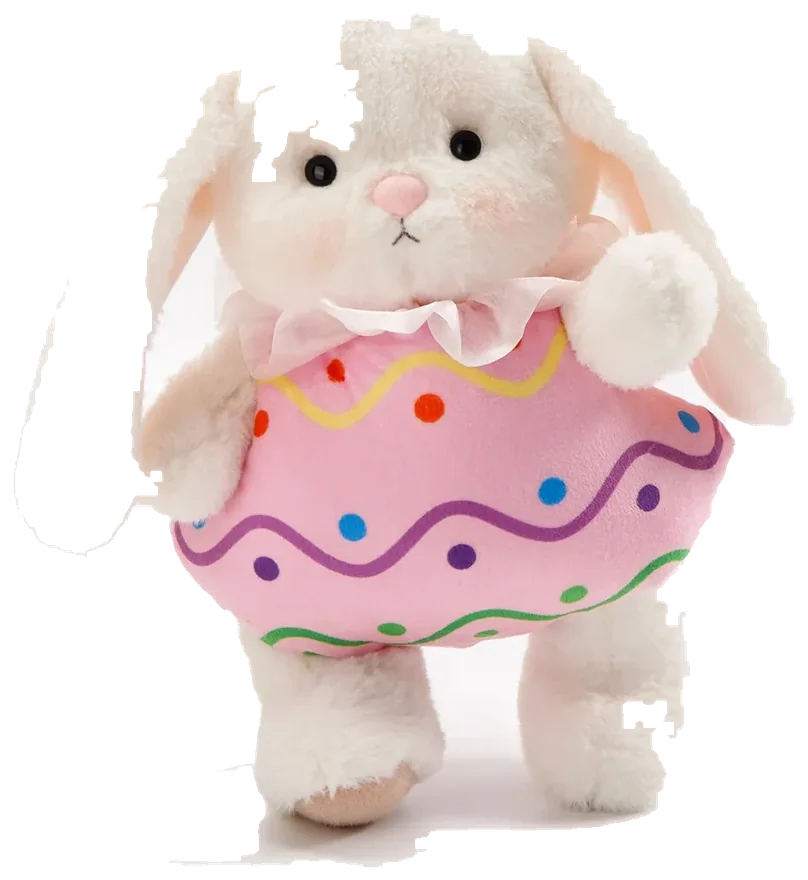
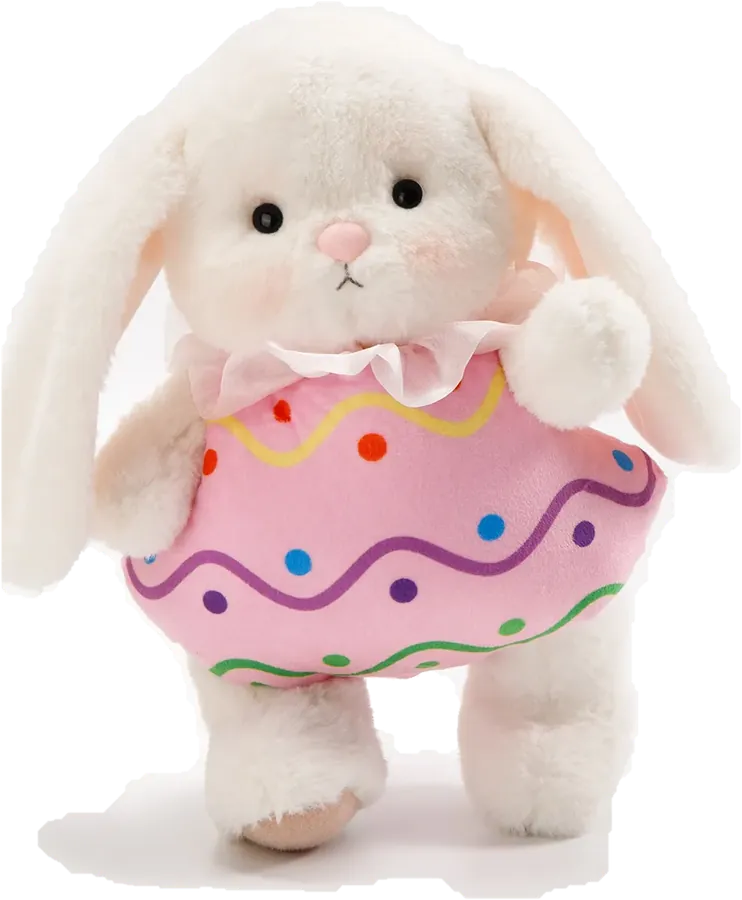
Détourages officiels pour 14 doudous, une seule photo par fiche
Photos : les 14 visuels fournis, déjà détourés, remplacent les découpes
maison (halos de fond, contours rongés). Même traitement que la série
Halloween — recadrage sur le contenu opaque, WebP 900 px.

Fiche produit : la galerie fabriquait quatre « vues » (studio, décor,
zoom, chambre) à partir du même fichier en changeant le fond et
l'échelle. Quatre vignettes pour une seule vraie photo, donc la promesse
d'angles qui n'existent pas. Une photo, une vignette.

Livraison offerte : la PR #14 avait retiré les deux mentions à côté de
la nouvelle bannière (carte de réassurance, ligne du Doudou Mystère).
Elles n'avaient pas été demandées, elles reviennent.

Claude-Session: https://claude.ai/code/session_01Kr7bapzMPAxzmnzg6h2q7J

diff --git a/components/ProductGallery.tsx b/components/ProductGallery.tsx
@@ -1,69 +1,25 @@
-"use client";
-
 /**
- * Galerie produit : plusieurs mises en scène du même doudou (fond, cadrage,
- * décor saisonnier). <ProductVisual> affiche la vraie photo quand le produit
- * en a une, et l'illustration SVG sinon.
+ * Visuel de la fiche produit : une seule photo, celle du doudou.
+ *
+ * La galerie proposait auparavant quatre « vues » (studio, décor, zoom,
+ * chambre) fabriquées à partir du même fichier en changeant le fond et
+ * l'échelle. Ça donnait quatre vignettes pour une seule vraie photo, ce qui
+ * promet des angles qui n'existent pas. Une photo, une vignette : ce qu'on
+ * montre correspond à ce qu'on a.
  */
 
-import { useState } from "react";
 import ProductVisual from "./ProductVisual";
 import type { Product } from "@/lib/products";
 
-const VIEWS = [
-  { key: "studio", label: "Studio", bg: "from-peach-50 to-bubble-50", zoom: "scale-100", deco: [] as string[] },
-  { key: "halloween", label: "Décor 🎃", bg: "from-pumpkin-300/40 to-lilac-100", zoom: "scale-95", deco: ["🎃", "🍂", "🕸"] },
-  { key: "zoom", label: "Détail", bg: "from-bubble-100 to-cream", zoom: "scale-150", deco: [] },
-  { key: "cosy", label: "Chambre 🌙", bg: "from-lilac-100 to-bubble-50", zoom: "scale-90", deco: ["🌙", "⭐", "🎀"] },
-];
-
 export default function ProductGallery({ product }: { product: Product }) {
-  const [index, setIndex] = useState(0);
-  const view = VIEWS[index];
-
   return (
-    <div className="flex flex-col gap-3">
-      <div
-        className={`relative aspect-square overflow-hidden rounded-[var(--radius-cute)] bg-gradient-to-br ${view.bg}`}
-      >
-        {view.deco.map((emoji, i) => (
-          <span
-            key={emoji}
-            className="deco absolute animate-float text-4xl opacity-70 sm:text-5xl"
-            style={{
-              left: `${8 + i * 34}%`,
-              top: i % 2 === 0 ? "8%" : "72%",
-              animationDelay: `${i * 0.5}s`,
-            }}
-            aria-hidden="true"
-          >
-            {emoji}
-          </span>
-        ))}
-        <ProductVisual
-          product={product}
-          priority
-          sizes="(max-width: 1024px) 92vw, 520px"
-          className={`h-full w-full p-8 transition-transform duration-500 ${view.zoom}`}
-        />
-      </div>
-
-      <div className="flex gap-2 overflow-x-auto no-scrollbar">
-        {VIEWS.map((v, i) => (
-          <button
-            key={v.key}
-            type="button"
-            onClick={() => setIndex(i)}
-            aria-label={`Vue ${v.label}`}
-            aria-pressed={i === index}
-            className={`relative aspect-square w-20 shrink-0 overflow-hidden rounded-2xl bg-gradient-to-br ${v.bg} transition ${
-              i === index ? "ring-2 ring-bubble-400" : "opacity-70 hover:opacity-100"
-            }`}
-          >
-            <ProductVisual product={product} label={null} sizes="80px" className="h-full w-full p-2" />
-          </button>
-        ))}
-      </div>
+    <div className="relative aspect-square overflow-hidden rounded-[var(--radius-cute)] bg-gradient-to-br from-peach-50 to-bubble-50">
+      <ProductVisual
+        product={product}
+        priority
+        sizes="(max-width: 1024px) 92vw, 520px"
+        className="h-full w-full p-8"
+      />
     </div>
   );
 }

diff --git a/lib/site.ts b/lib/site.ts
@@ -111,9 +111,9 @@ export const trustBadges = [
     text: "Carte bancaire, Apple Pay et Google Pay via un paiement chiffré.",
   },
   {
-    emoji: "📦",
-    title: "Colis suivi",
-    text: "Un numéro de suivi t'est envoyé par e-mail dès l'expédition.",
+    emoji: "🚚",
+    title: "Livraison offerte",
+    text: "Sur toutes les commandes, sans minimum d'achat. Colis suivi.",
   },
   {
     emoji: "💕",

diff --git a/components/MysteryBox.tsx b/components/MysteryBox.tsx
@@ -64,7 +64,9 @@ export default function MysteryBox() {
             <AddToCartButton handle={mysteryProduct.handle} variant="mystery" size="lg">
               Je tente ma chance 🎃
             </AddToCartButton>
-
+            <span className="text-sm font-semibold text-cocoa-800/70">
+              Livraison offerte 🚚
+            </span>
           </div>
         </div>
       </div>
